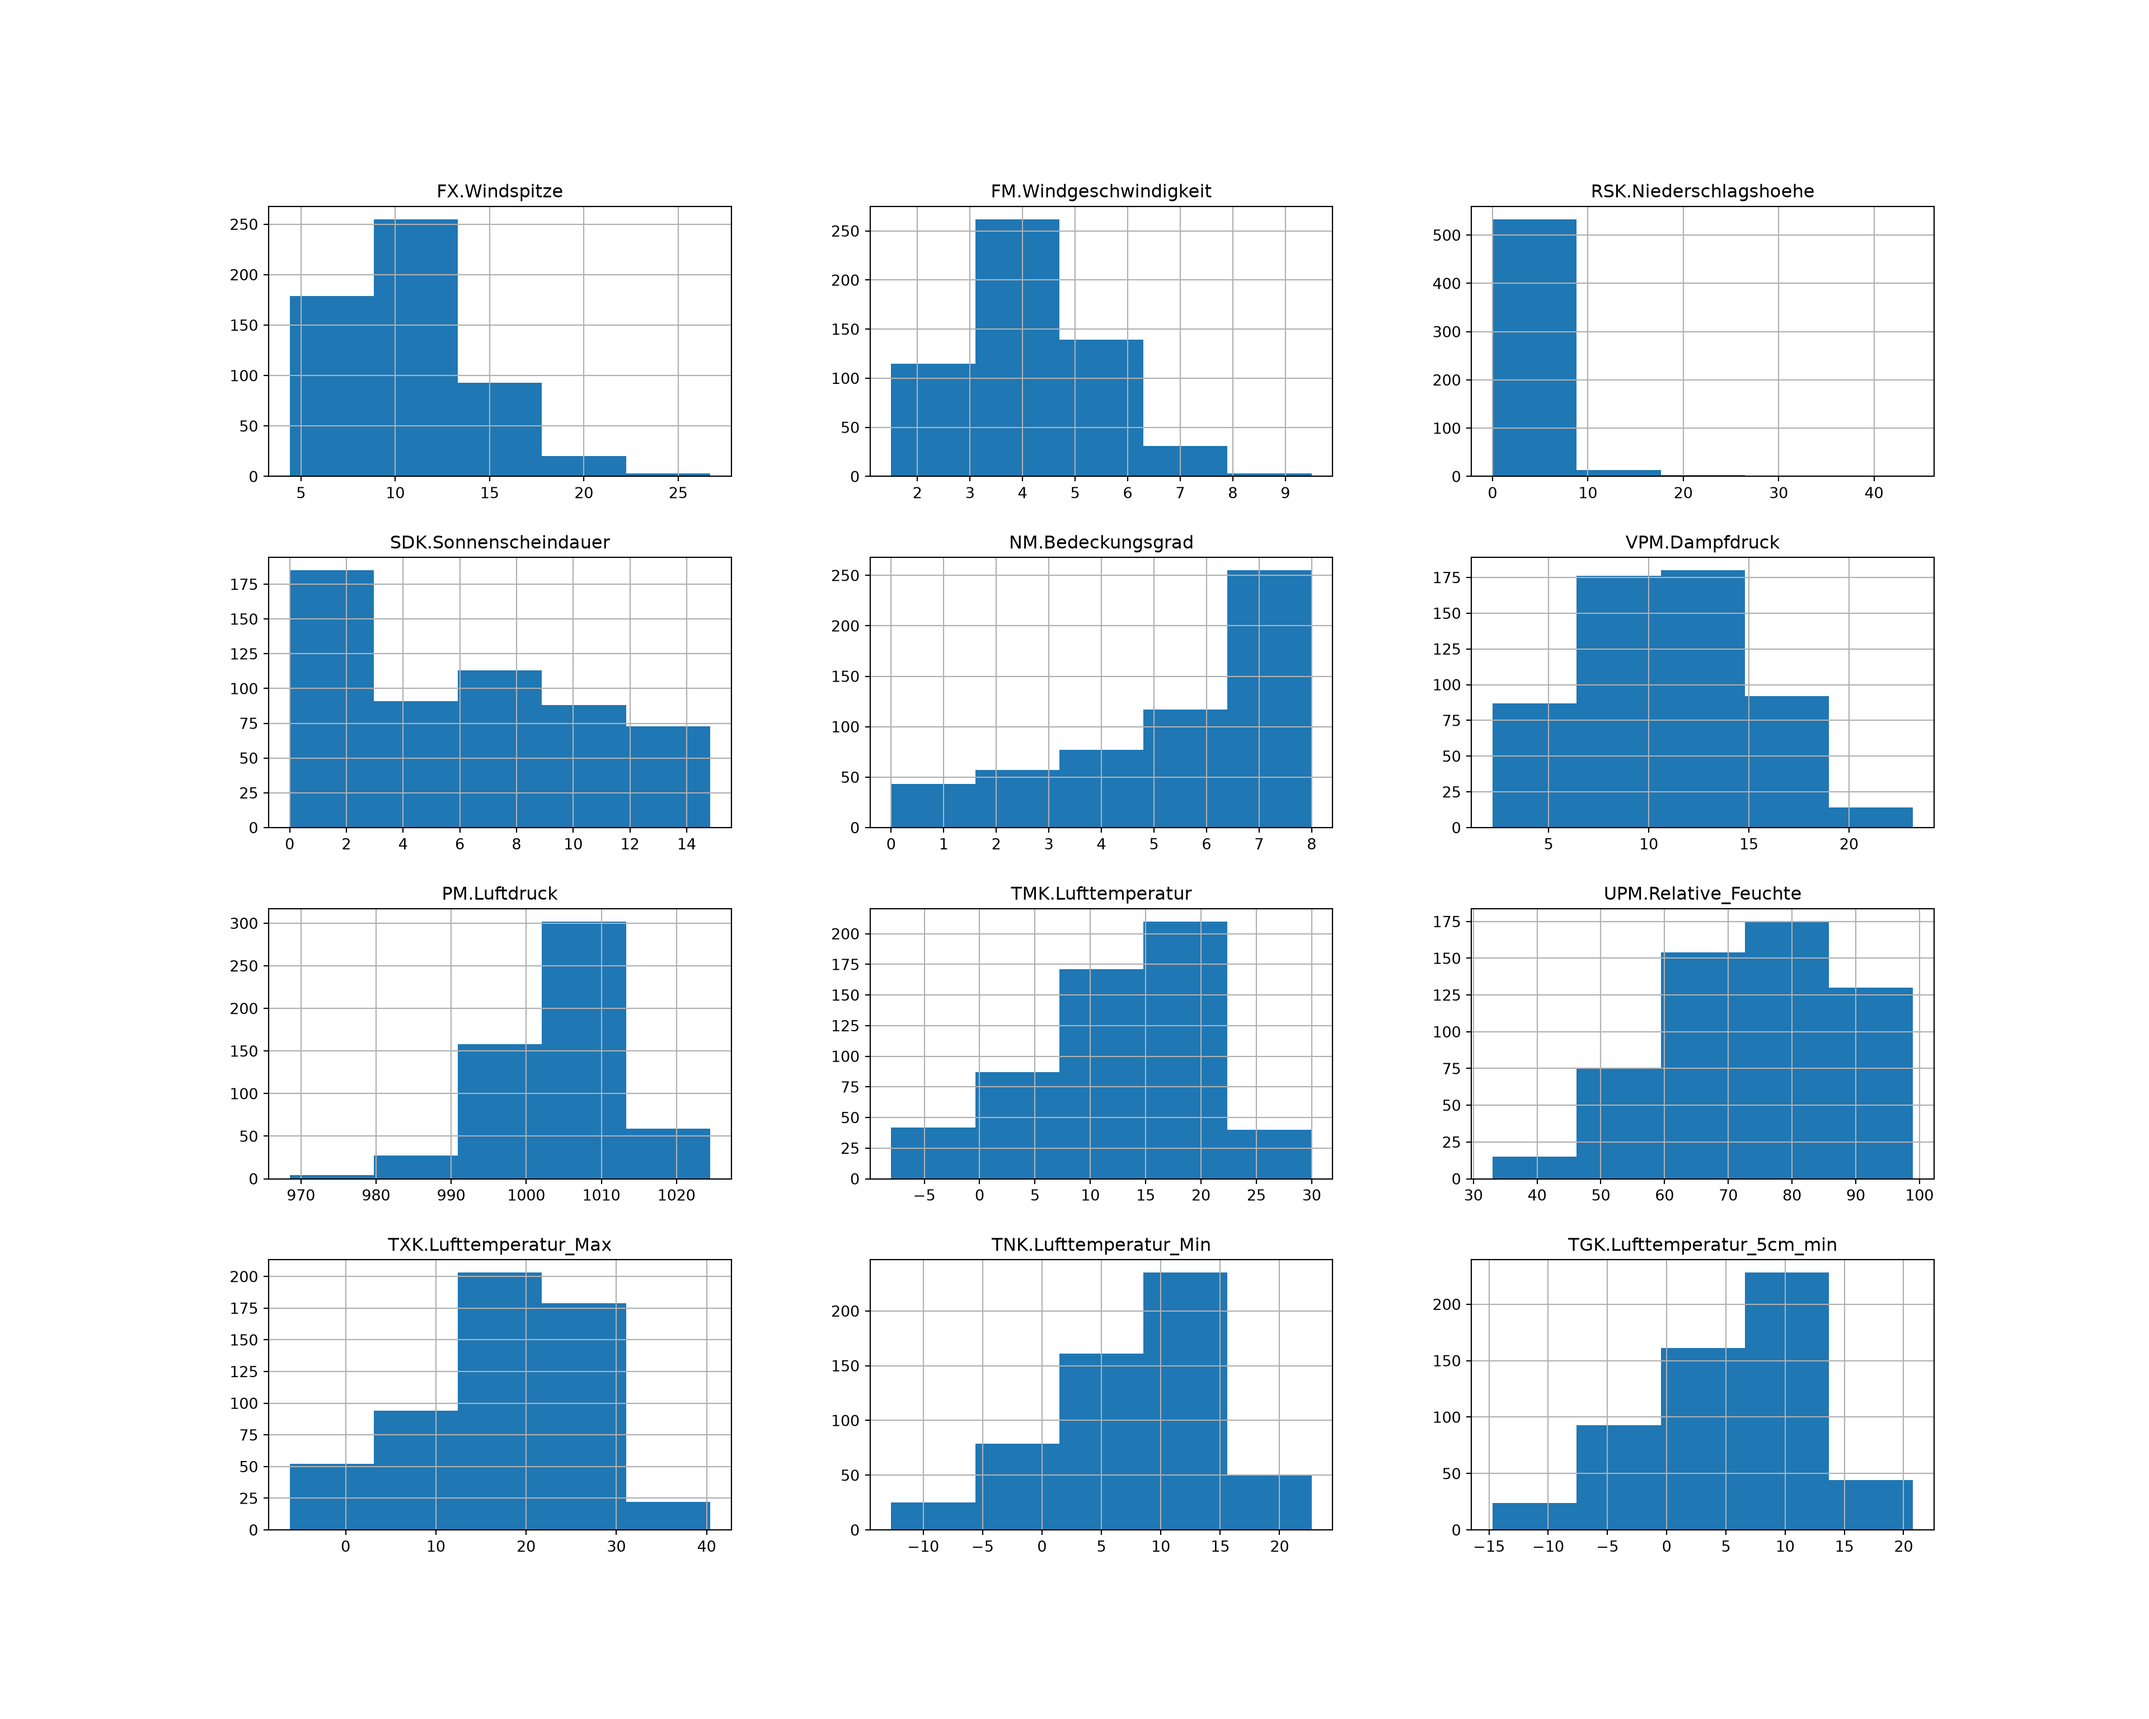
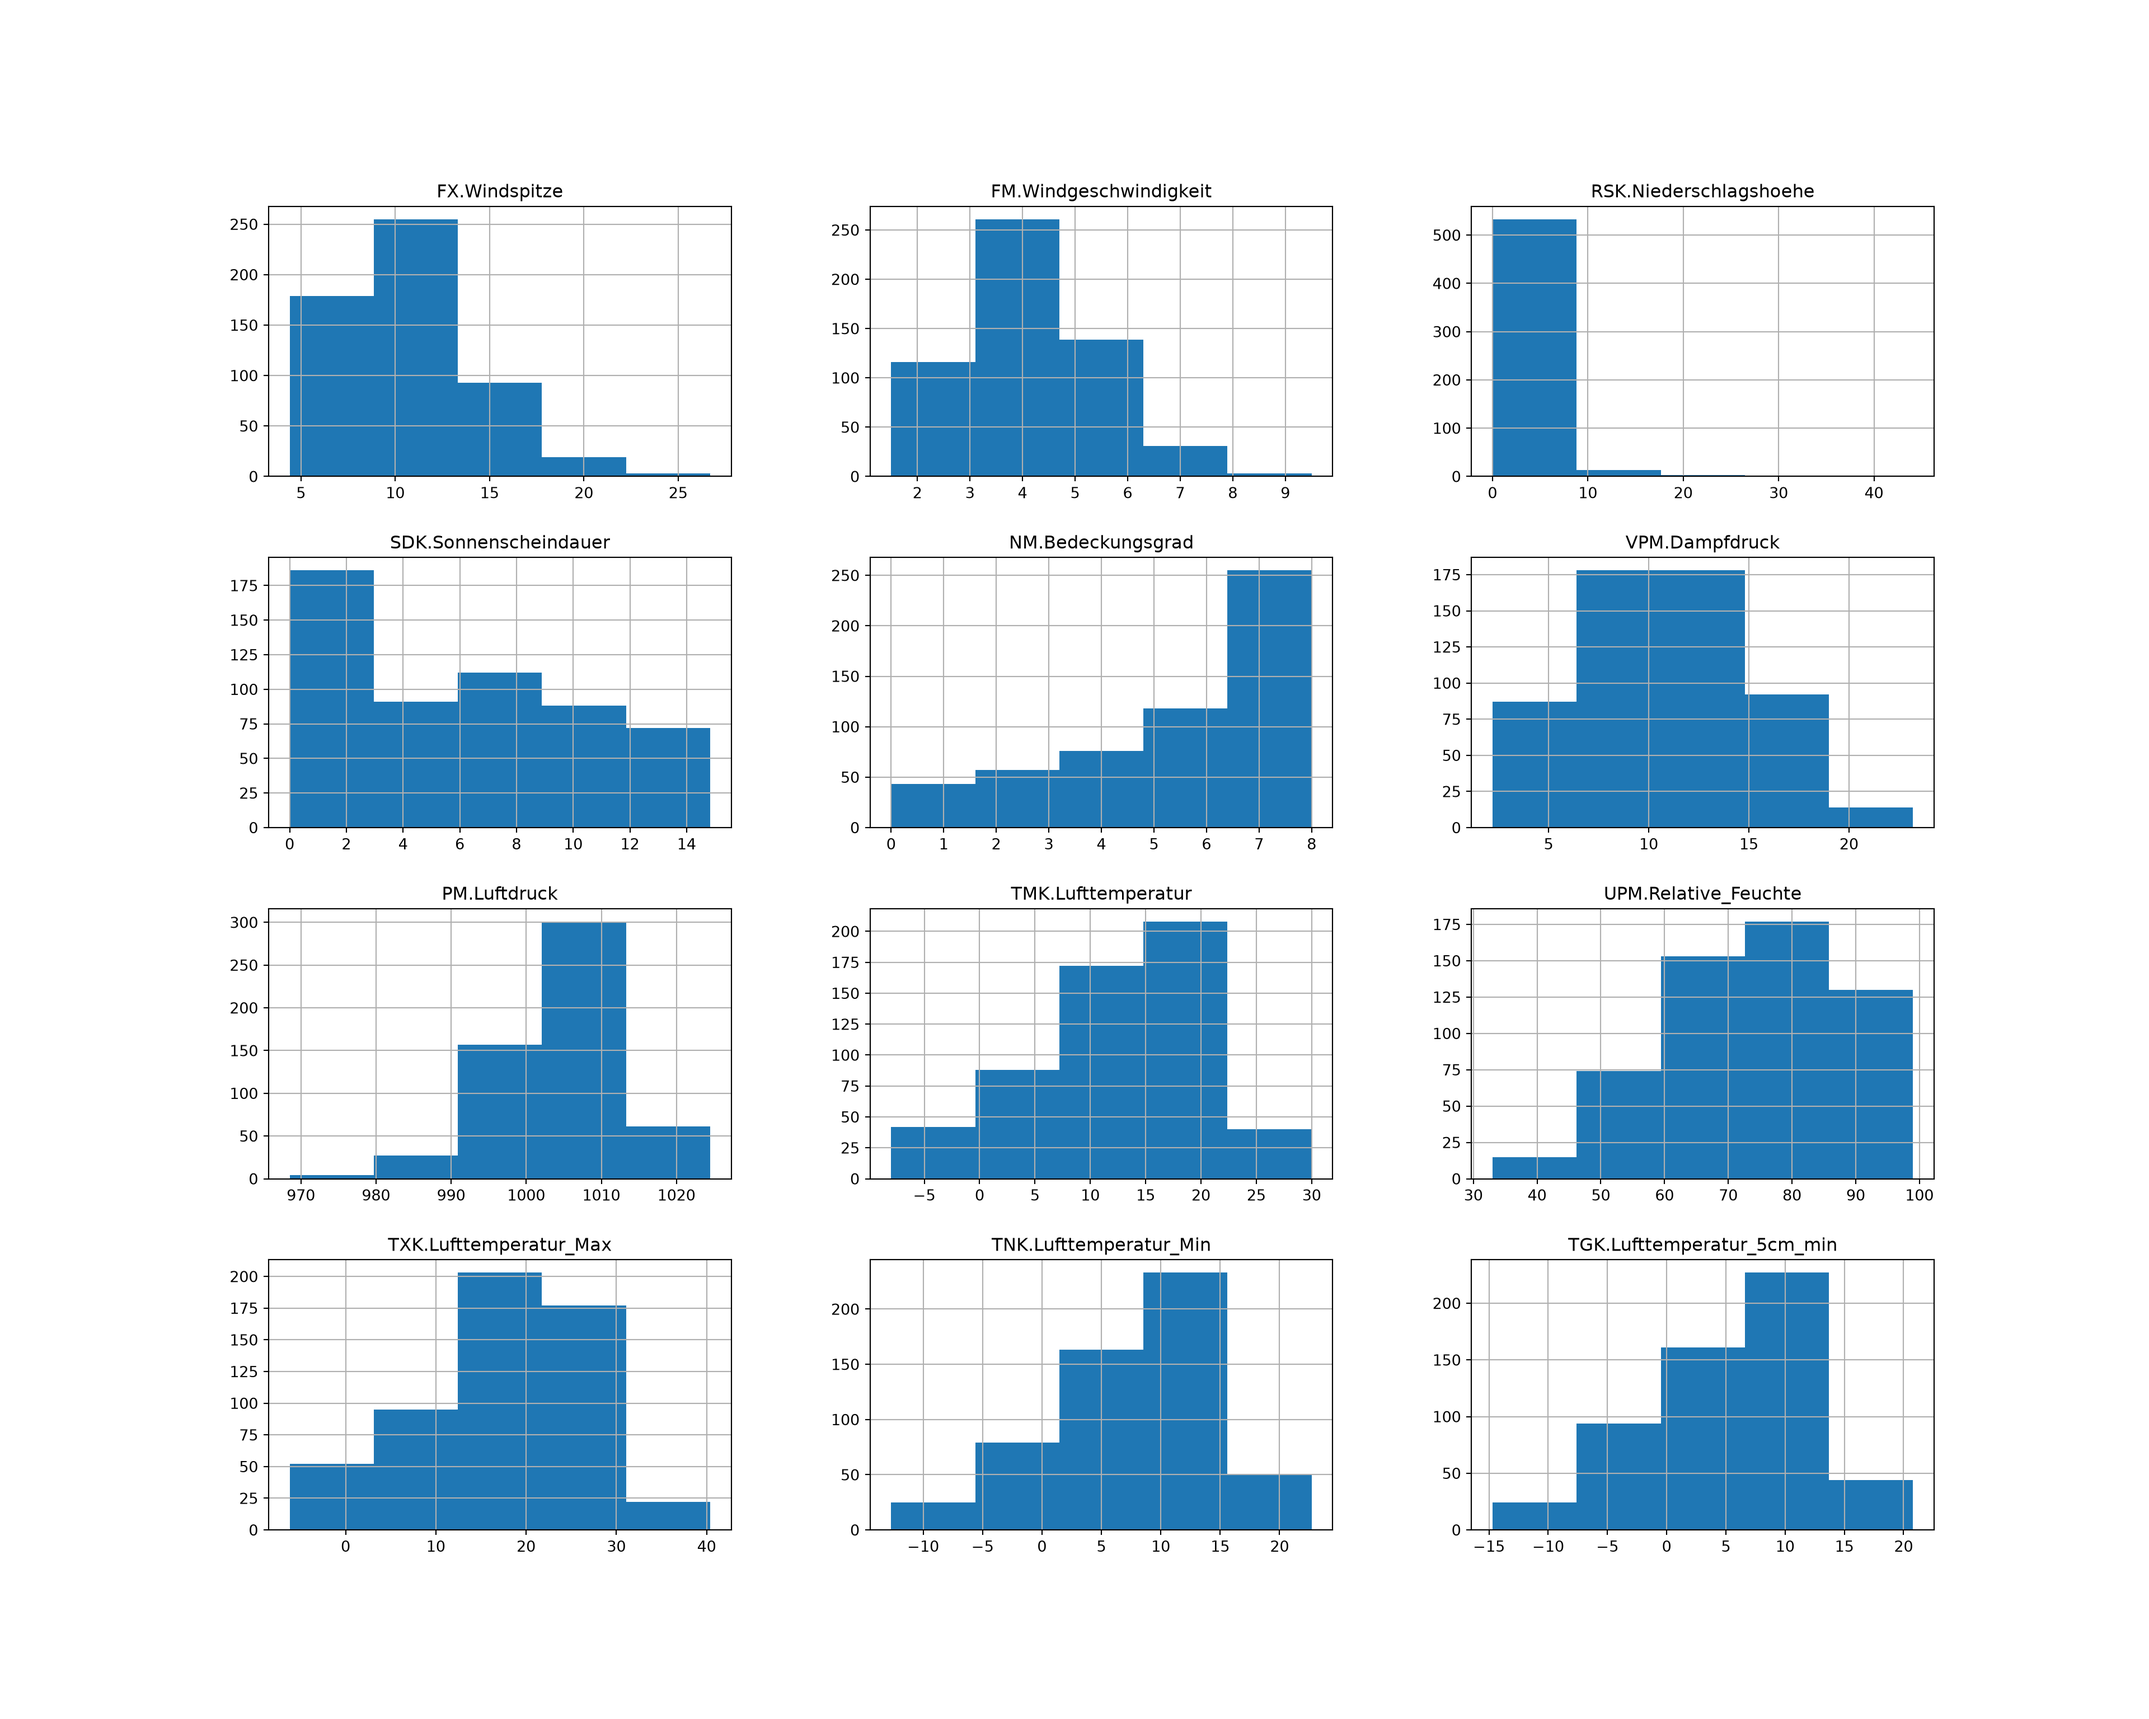
Hold python output in summary statistics chunk
Add results: hold so the summary statistics output appears
after all code instead of being split between print calls.

diff --git a/index.html b/index.html
@@ -2,7 +2,7 @@
 <html xmlns="http://www.w3.org/1999/xhtml" lang="en" xml:lang="en"><head>
 
 <meta charset="utf-8">
-<meta name="generator" content="quarto-1.9.0">
+<meta name="generator" content="quarto-1.8.25">
 
 <meta name="viewport" content="width=device-width, initial-scale=1.0, user-scalable=yes">
 
@@ -67,7 +67,7 @@ pre > code.sourceCode > span > a:first-child::before { text-decoration: underlin
 <script src="index_files/libs/quarto-html/tippy.umd.min.js"></script>
 <script src="index_files/libs/quarto-html/anchor.min.js"></script>
 <link href="index_files/libs/quarto-html/tippy.css" rel="stylesheet">
-<link href="index_files/libs/quarto-html/quarto-syntax-highlighting-0ed29b1f0e6f007c337b74d6a5232f88.css" rel="stylesheet" id="quarto-text-highlighting-styles">
+<link href="index_files/libs/quarto-html/quarto-syntax-highlighting-7b89279ff1a6dce999919e0e67d4d9ec.css" rel="stylesheet" id="quarto-text-highlighting-styles">
 <script src="index_files/libs/bootstrap/bootstrap.min.js"></script>
 <link href="index_files/libs/bootstrap/bootstrap-icons.css" rel="stylesheet">
 <link href="index_files/libs/bootstrap/bootstrap-a74871fe4945b66d259aafc266475145.min.css" rel="stylesheet" append-hash="true" id="quarto-bootstrap" data-mode="light">
@@ -113,7 +113,7 @@ pre > code.sourceCode > span > a:first-child::before { text-decoration: underlin
     <div>
     <div class="quarto-title-meta-heading">Published</div>
     <div class="quarto-title-meta-contents">
-      <p class="date">2026-11-02 13:40</p>
+      <p class="date">2026-11-05 09:56</p>
     </div>
   </div>
   
@@ -147,7 +147,7 @@ To learn more markdown, create a copy of the file (<a href="https://github.com/b
 <li><label><input type="checkbox" checked="">make one single code chunk foldable (folded by default); leave all other chunks as is</label></li>
 <li><label><input type="checkbox" checked="">suppress the output of <code>updateRdwd</code> with a chunk option</label></li>
 <li><label><input type="checkbox" checked="">add a bit of text with the output of an inline code expression</label></li>
-<li><label><input type="checkbox">improve the python output to not be split up but appear after all code (with a chunk option)</label></li>
+<li><label><input type="checkbox" checked="">improve the python output to not be split up but appear after all code (with a chunk option)</label></li>
 <li><label><input type="checkbox">move done tasks to a nicely named collapsed section to declutter this overview</label></li>
 <li><label><input type="checkbox">add a <code>knitr::kable</code> with a small subset of the dataset (with proper package importing)</label></li>
 <li><label><input type="checkbox">format a plot as actual figures and add labels (chunk options)</label></li>
@@ -265,25 +265,20 @@ To learn more markdown, create a copy of the file (<a href="https://github.com/b
 <details class="code-fold">
 <summary>Show summary statistics code</summary>
 <div class="code-copy-outer-scaffold"><div class="sourceCode cell-code" id="cb7"><pre class="sourceCode python code-with-copy"><code class="sourceCode python"><span id="cb7-1"><a href="#cb7-1" aria-hidden="true" tabindex="-1"></a><span class="co"># Calculate and display some basic statistics</span></span>
-<span id="cb7-2"><a href="#cb7-2" aria-hidden="true" tabindex="-1"></a><span class="bu">print</span>(<span class="st">"</span><span class="ch">\n</span><span class="st">=== Summary Statistics for Temperature ==="</span>)</span></code></pre></div><button title="Copy to Clipboard" class="code-copy-button"><i class="bi"></i></button></div>
+<span id="cb7-2"><a href="#cb7-2" aria-hidden="true" tabindex="-1"></a><span class="bu">print</span>(<span class="st">"</span><span class="ch">\n</span><span class="st">=== Summary Statistics for Temperature ==="</span>)</span>
+<span id="cb7-3"><a href="#cb7-3" aria-hidden="true" tabindex="-1"></a>temp_stats <span class="op">=</span> clim_py[<span class="st">'TMK.Lufttemperatur'</span>].describe()</span>
+<span id="cb7-4"><a href="#cb7-4" aria-hidden="true" tabindex="-1"></a><span class="bu">print</span>(temp_stats)</span></code></pre></div><button title="Copy to Clipboard" class="code-copy-button"><i class="bi"></i></button></div>
 </details>
 <div class="cell-output cell-output-stdout">
 <pre><code>
-=== Summary Statistics for Temperature ===</code></pre>
-</div>
-<details class="code-fold">
-<summary>Show summary statistics code</summary>
-<div class="code-copy-outer-scaffold"><div class="sourceCode cell-code" id="cb9"><pre class="sourceCode python code-with-copy"><code class="sourceCode python"><span id="cb9-1"><a href="#cb9-1" aria-hidden="true" tabindex="-1"></a>temp_stats <span class="op">=</span> clim_py[<span class="st">'TMK.Lufttemperatur'</span>].describe()</span>
-<span id="cb9-2"><a href="#cb9-2" aria-hidden="true" tabindex="-1"></a><span class="bu">print</span>(temp_stats)</span></code></pre></div><button title="Copy to Clipboard" class="code-copy-button"><i class="bi"></i></button></div>
-</details>
-<div class="cell-output cell-output-stdout">
-<pre><code>count    550.000000
-mean      12.318000
-std        7.719409
+=== Summary Statistics for Temperature ===
+count    550.000000
+mean      12.273273
+std        7.718046
 min       -8.000000
-25%        7.500000
-50%       13.650000
-75%       18.100000
+25%        7.400000
+50%       13.350000
+75%       18.075000
 max       30.000000
 Name: TMK.Lufttemperatur, dtype: float64</code></pre>
 </div>

diff --git a/index_files/libs/quarto-html/quarto-syntax-highlighting-7b89279ff1a6dce999919e0e67d4d9ec.css b/index_files/libs/quarto-html/quarto-syntax-highlighting-7b89279ff1a6dce999919e0e67d4d9ec.css
@@ -233,4 +233,4 @@ code span.wa {
   content: "</";
 }
 
-/*# sourceMappingURL=afa0a98ff98fcef264420b99c298dec0.css.map */
+/*# sourceMappingURL=3944bc705cfaf4c80e56f77c5205168a.css.map */
